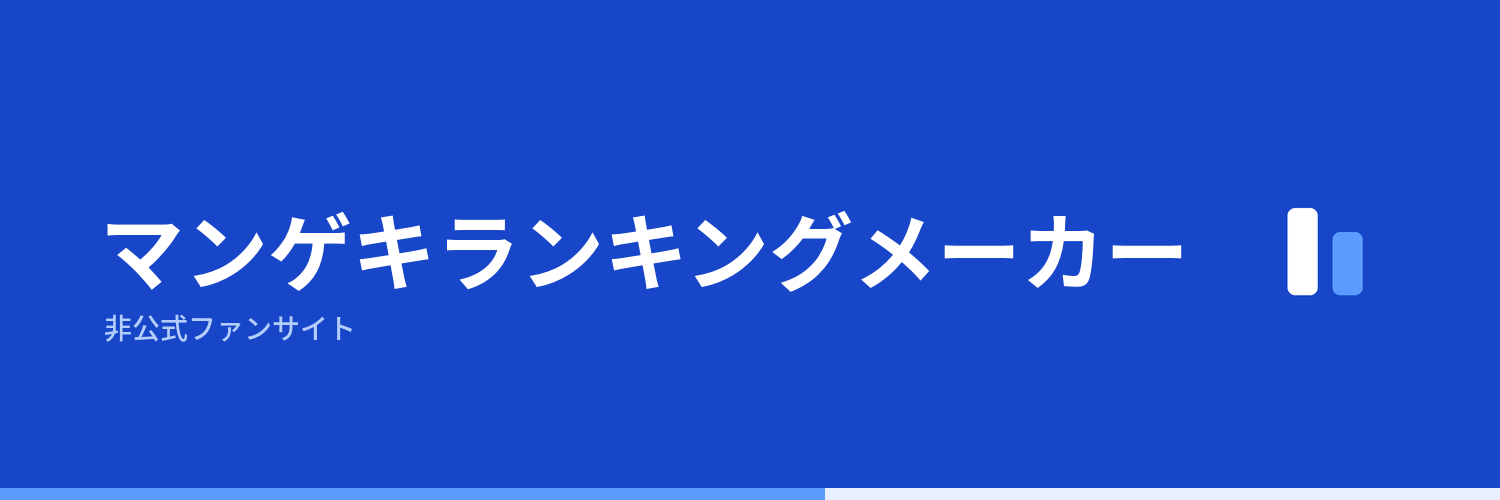
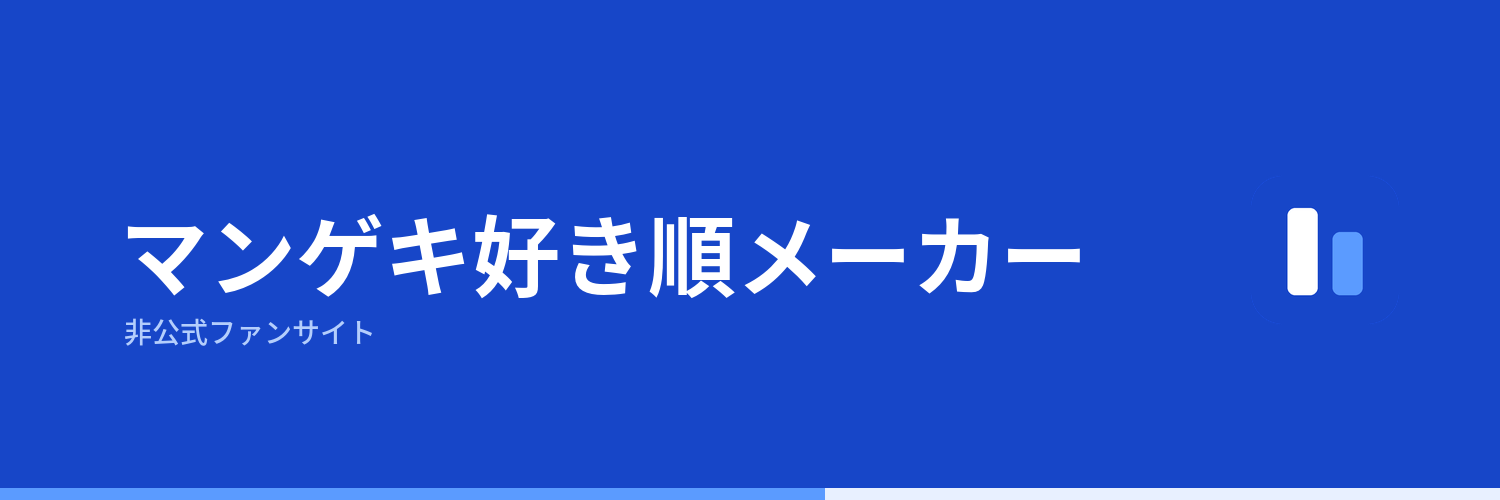
Add files via upload

Changed region(s): [[0.0613, 0.42, 0.7973, 0.6], [0.0613, 0.63, 0.2453, 0.69]]

diff --git a/index.html b/index.html
@@ -3,7 +3,7 @@
 <head>
 <meta charset="utf-8">
 <meta name="viewport" content="width=device-width, initial-scale=1, viewport-fit=cover">
-<title>マンゲキランキングメーカー｜2択で作るマンゲキ芸人ランキング</title>
+<title>マンゲキ好き順メーカー｜2択で作るマンゲキ芸人ランキング</title>
 <meta name="description" content="渋谷よしもと漫才劇場とよしもと漫才劇場（大阪）の所属芸人を2択で並べかえて、自分だけのランキング画像が作れる非公式ファンサイト。">
 <link rel="icon" href="./favicon.svg" type="image/svg+xml">
 <link rel="alternate icon" href="./favicon.png">
@@ -11,11 +11,11 @@
 <!-- ▼ 独自ドメインに変えたときは、下の og:url / og:image / twitter:image のURLも直してください -->
 <meta property="og:url" content="https://mngksort.pages.dev/">
 <meta property="og:type" content="website">
-<meta property="og:title" content="マンゲキランキングメーカー">
+<meta property="og:title" content="マンゲキ好き順メーカー">
 <meta property="og:description" content="自分だけのマンゲキ芸人ランキングを作成">
 <meta property="og:image" content="https://mngksort.pages.dev/ogp.png">
 <meta name="twitter:card" content="summary_large_image">
-<meta name="twitter:title" content="マンゲキランキングメーカー">
+<meta name="twitter:title" content="マンゲキ好き順メーカー">
 <meta name="twitter:description" content="自分だけのマンゲキ芸人ランキングを作成">
 <meta name="twitter:image" content="https://mngksort.pages.dev/ogp.png">
 <link rel="preconnect" href="https://fonts.googleapis.com">
@@ -140,8 +140,6 @@ input[type=text]:focus{outline:none;border-color:var(--blue);box-shadow:0 0 0 3p
 .rank .nm{font-weight:700;color:var(--navy);font-size:16px}
 .rank li.t1 .nm{font-size:20px}
 .rank .mb{font-size:11.5px;color:var(--mute);margin-left:7px;font-weight:400}
-.rank li.unk{background:#FAFCFF}
-.rank li.unk .no,.rank li.unk .nm{color:#9BABC4}
 .fld{font-size:12px;color:var(--mute);margin:16px 0 0}
 .segs{display:flex;gap:7px;flex-wrap:wrap;margin-top:7px}
 .segs button{background:var(--white);border:1.5px solid var(--line);border-radius:999px;padding:6px 15px;font-size:13px}
@@ -180,14 +178,14 @@ footer a{color:var(--blue)}
 <div class="topbar"></div>
 <div class="wrap">
 
-  <div class="masthead"><h1>マンゲキランキングメーカー</h1></div>
+  <div class="masthead"><h1>マンゲキ好き順メーカー</h1></div>
 
   <!-- SETUP -->
   <section id="setup">
     <div class="panel">
-      <h2>ランキング名</h2>
+      <h2>タイトル</h2>
       <p class="note">タイトルは後からも変更可能です。</p>
-      <input id="title" type="text" maxlength="30" placeholder="好きな劇場所属芸人ランキング" value="好きな劇場所属芸人ランキング">
+      <input id="title" type="text" maxlength="30" placeholder="マンゲキ好き順" value="マンゲキ好き順">
     </div>
 
     <div class="panel">
@@ -199,7 +197,7 @@ footer a{color:var(--blue)}
       <div class="opts three" id="groups"></div>
 
       <div class="gap"></div>
-      <h2>ソート対象</h2>
+      <h2>並び替え対象</h2>
       <div class="opts two" id="entries"></div>
 
       <div class="picker hidden" id="picker">
@@ -280,7 +278,7 @@ footer a{color:var(--blue)}
 /* ▼▼ SNS共有に付けるリンク。空のままなら、今このページを開いているURLが自動で使われます。
       固定したい場合だけ "https://example.pages.dev/" のように書いてください ▼▼ */
 const SHARE_URL="https://mngksort.pages.dev/";
-const shareUrl=()=>SHARE_URL||location.href.split("#")[0].split("?")[0];
+const shareUrl=()=>(SHARE_URL||location.href.split("#")[0].split("?")[0])+(location.hash||"");
 /* ▲▲ ここだけ書き換えればOK ▲▲ */
 
 /* ===== データ：渋谷よしもと漫才劇場 所属芸人 ===== */
@@ -375,7 +373,7 @@ addActs(TOKYO_SHO,"tokyo","sho");
 addActs(OSAKA_KIWAMI,"osaka","kiwami");
 addActs(OSAKA_SHO,"osaka","sho");
 const GNAME={kiwami:"極",sho:"翔",all:"全"};
-const DEFAULT_TITLE="好きな劇場所属芸人ランキング";
+const DEFAULT_TITLE="マンゲキ好き順";
 const THEATERS={
   tokyo:{label:"東京",name:"渋谷よしもと漫才劇場"},
   osaka:{label:"大阪",name:"よしもと漫才劇場"}
@@ -396,7 +394,7 @@ function ask(msg,yes){
 let theater="tokyo",group="kiwami",entry="all",custom=new Set();
 const cnt=(t,g)=>ACTS.filter(a=>a.t===t&&(g==="all"||a.g===g)).length;
 const THEATER_OPTS=[["tokyo","東京",cnt("tokyo","all")+"組"],["osaka","大阪",cnt("osaka","all")+"組"]];
-const ENTRIES=[["all","全組でソート",""],["custom","自分で選ぶ",""]];
+const ENTRIES=[["all","全組",""],["custom","自分で選ぶ",""]];
 function mkOpts(host,list,get,set){
   host.innerHTML="";
   list.forEach(([v,t,s])=>{
@@ -441,12 +439,12 @@ function syncAll(){
   $("#picker").classList.toggle("hidden",entry!=="custom");
   $("#pickCount").textContent=pool().filter(a=>custom.has(a.id)).length+"組を選択中";
   const n=chosen().length,e=estimate(n);
-  $("#summary").innerHTML=n<2?"2組以上えらんでください":`<b>${n}</b>組でソート　所要時間 約<b>${mins(e)}</b>分`;
+  $("#summary").innerHTML=n<2?"2組以上えらんでください":`<b>${n}</b>組を並び替え　所要時間 約<b>${mins(e)}</b>分`;
   $("#start").disabled=n<2;
 }
 
 /* ===== ソート機構 ===== */
-let S=null,history=[],done=0,manual=0,rosterIds=[],usedLabel="",usedTheater="",hiddenSet=new Set();
+let S=null,history=[],done=0,manual=0,rosterIds=[],usedLabel="",usedTheater="",usedCount=0,hiddenSet=new Set();
 const clone=o=>JSON.parse(JSON.stringify(o));
 function shuffle(a){for(let i=a.length-1;i>0;i--){const j=Math.floor(Math.random()*(i+1));[a[i],a[j]]=[a[j],a[i]]}return a}
 function advance(s){
@@ -483,10 +481,11 @@ function begin(){
   const ids=chosen();
   const gl=group==="all"?"全メンバー":GNAME[group]+"メンバー";
   usedLabel=entry==="all"?`${gl}${ids.length}組`:`${gl}から${ids.length}組`;
-  usedTheater=THEATERS[theater].name;
+  usedTheater=THEATERS[theater].name;usedCount=ids.length;
   rosterIds=shuffle(ids.slice());
   S={pending:rosterIds.map(i=>[[i]]),next:[],cur:null};
   history=[];done=0;manual=0;hiddenSet=new Set();
+  clearHash();
   const t=$("#title").value.trim();
   $("#qText").textContent=t?`「${t}」ならどっち？`:"どっちが好き？";
   $("#setup").classList.add("hidden");$("#result").classList.add("hidden");
@@ -529,6 +528,7 @@ $("#skipB").onclick=e=>{drop(e);hideAct("b")};
 $("#undo").onclick=()=>{const h=history.pop();if(h){S=h.s;done=h.done;manual=h.manual;hiddenSet=new Set(h.hid);render()}};
 $("#quit").onclick=async()=>{
   if(await ask("ここまでの選択は消えます。最初からやり直しますか？","やり直す")){
+    clearHash();
     $("#battle").classList.add("hidden");$("#setup").classList.remove("hidden");window.scrollTo(0,0);
   }
 };
@@ -552,17 +552,13 @@ function rankRows(){
   RESULT.forEach(g=>{
     const keep=g.filter(id=>!hiddenSet.has(id));
     if(!keep.length)return;
-    keep.forEach(id=>rows.push({rank:r,act:ACTS[id],unknown:false}));
+    keep.forEach(id=>rows.push({rank:r,act:ACTS[id]}));
     r+=keep.length;
   });
-  /* 「分からない」で省いた組は、全員そろって最下位に */
-  const unknowns=[];
-  RESULT.forEach(g=>g.forEach(id=>{if(hiddenSet.has(id))unknowns.push(id)}));
-  unknowns.forEach(id=>rows.push({rank:r,act:ACTS[id],unknown:true}));
   return rows;
 }
 function limited(){const rows=rankRows();return depth==="all"?rows:rows.filter(r=>r.rank<=Number(depth))}
-async function showResult(res){
+async function showResult(res,savedDepth,restoring){
   RESULT=res;
   const n=rankRows().length;
   if(n<1){
@@ -572,19 +568,20 @@ async function showResult(res){
   $("#battle").classList.add("hidden");$("#result").classList.remove("hidden");
   const opts=[["5","上位5組"],["10","上位10組"],["all","全"+n+"組"]].filter(o=>o[0]==="all"||Number(o[0])<n);
   depth=n>10?"10":(n>5?"5":"all");
+  if(savedDepth&&opts.some(o=>o[0]===savedDepth))depth=savedDepth;
   const d=$("#depth");d.innerHTML="";
   opts.forEach(([v,t])=>{const b=document.createElement("button");b.type="button";b.textContent=t;
     b.setAttribute("aria-pressed",v===depth);
-    b.onclick=()=>{depth=v;[...d.children].forEach((c,i)=>c.setAttribute("aria-pressed",opts[i][0]===v));drawResult()};
+    b.onclick=()=>{depth=v;[...d.children].forEach((c,i)=>c.setAttribute("aria-pressed",opts[i][0]===v));syncHash(false);drawResult()};
     d.appendChild(b)});
+  if(!restoring)syncHash(true);
   window.scrollTo(0,0);drawResult();
 }
 function drawResult(){
   const list=$("#rankList");list.innerHTML="";
   limited().forEach(r=>{
     const li=document.createElement("li");
-    if(r.unknown)li.className="unk";
-    else if(r.rank<=3)li.className="t"+r.rank;
+    if(r.rank<=3)li.className="t"+r.rank;
     li.innerHTML='<span class="no"></span><span><span class="nm"></span><span class="mb"></span></span>';
     li.querySelector(".no").textContent=r.rank;
     li.querySelector(".nm").textContent=r.act.n;
@@ -594,7 +591,58 @@ function drawResult(){
   drawImage();
 }
 let drawTimer=null;
-$("#title2").oninput=()=>{clearTimeout(drawTimer);drawTimer=setTimeout(drawImage,400)};
+$("#title2").oninput=()=>{clearTimeout(drawTimer);drawTimer=setTimeout(()=>{syncHash(false);drawImage()},400)};
+
+/* ===== 結果をURLに保存して、再読み込みや共有で復元できるようにする ===== */
+const bare=()=>location.pathname+location.search;
+function resultHash(){
+  const p=new URLSearchParams();
+  p.set("v","1");p.set("t",theater);p.set("g",group);p.set("e",entry);
+  p.set("c",String(usedCount||rankRows().length));
+  p.set("d",depth);
+  p.set("n",$("#title2").value.trim()||DEFAULT_TITLE);
+  p.set("r",RESULT.map(g=>g.filter(id=>!hiddenSet.has(id))).filter(g=>g.length).map(g=>g.join("-")).join("."));
+  return "#"+p.toString();
+}
+function syncHash(push){
+  if(!RESULT.length)return;
+  const h=resultHash();
+  if(location.hash===h)return;
+  try{push?history.pushState(null,"",h):history.replaceState(null,"",h)}catch(e){location.hash=h}
+}
+function clearHash(){try{history.pushState(null,"",bare())}catch(e){}}
+function parseHash(){
+  try{
+    const q=new URLSearchParams(location.hash.slice(1));
+    if(q.get("v")!=="1")return null;
+    const groups=(q.get("r")||"").split(".").filter(Boolean).map(g=>g.split("-").map(Number));
+    const ids=groups.flat();
+    if(!ids.length||ids.some(i=>!Number.isInteger(i)||i<0||i>=ACTS.length))return null;
+    if(new Set(ids).size!==ids.length)return null;
+    const t=q.get("t"),g=q.get("g");
+    if(!THEATERS[t]||!["kiwami","sho","all"].includes(g))return null;
+    return {groups,t,g,e:q.get("e")==="all"?"all":"custom",
+      c:Number(q.get("c"))||ids.length,n:q.get("n")||DEFAULT_TITLE,d:q.get("d")||"all"};
+  }catch(e){return null}
+}
+function restoreFromHash(){
+  const p=parseHash();if(!p)return false;
+  theater=p.t;group=p.g;entry=p.e;hiddenSet=new Set();rosterIds=[];
+  usedTheater=THEATERS[p.t].name;
+  const gl=p.g==="all"?"全メンバー":GNAME[p.g]+"メンバー";
+  usedCount=p.c;usedLabel=p.e==="all"?`${gl}${p.c}組`:`${gl}から${p.c}組`;
+  $("#title2").value=p.n;
+  $("#setup").classList.add("hidden");$("#battle").classList.add("hidden");
+  showResult(p.groups,p.d,true);
+  return true;
+}
+addEventListener("hashchange",()=>{
+  if(!location.hash){
+    $("#result").classList.add("hidden");$("#battle").classList.add("hidden");
+    $("#setup").classList.remove("hidden");return;
+  }
+  restoreFromHash();
+});
 
 /* ===== 画像 ===== */
 const W=960;let lastBlob=null,drawSeq=0,lastDraw=Promise.resolve();
@@ -630,7 +678,7 @@ async function renderImage(){
   const my=++drawSeq;
   const rows=limited();
   const title=($("#title2").value.trim())||DEFAULT_TITLE;
-  await ensureFonts(title+rows.map(r=>r.act.n).join("")+usedLabel+usedTheater+"渋谷よしもと漫才劇場大阪位組年月日を並べかえマンゲキランキングメーカー非公式");
+  await ensureFonts(title+rows.map(r=>r.act.n).join("")+usedLabel+usedTheater+"渋谷よしもと漫才劇場大阪位組年月日を並べかえマンゲキ好き順メーカー非公式");
   const c=document.createElement("canvas"),ctx=c.getContext("2d");
   const maxW=W-120;
 
@@ -668,13 +716,13 @@ async function renderImage(){
     if(i===0){ctx.fillStyle="#EFF5FF";ctx.fillRect(0,y,W,h)}
     ctx.textAlign="center";
     ctx.font=`500 ${i===0?58:i<3?46:36}px "Oswald",sans-serif`;
-    ctx.fillStyle=r.unknown?"#C3CEDE":r.rank===1?"#1746C8":r.rank<=3?"#5B9BFF":"#93A4BE";
+    ctx.fillStyle=r.rank===1?"#1746C8":r.rank<=3?"#5B9BFF":"#93A4BE";
     ctx.fillText(String(r.rank),104,cy+2);
     ctx.textAlign="left";
     let ns=i===0?50:i<3?42:34;
     const avail=W-172-48;
     while(ns>20){ctx.font=`700 ${ns}px "Zen Kaku Gothic New",sans-serif`;if(ctx.measureText(r.act.n).width<=avail)break;ns-=2}
-    ctx.fillStyle=r.unknown?"#8E9FB8":"#0E2140";
+    ctx.fillStyle="#0E2140";
     ctx.fillText(r.act.n,172,cy);
     ctx.fillStyle="#E2EAF6";ctx.fillRect(56,y+h-3,W-112,1);
     y+=h;
@@ -684,7 +732,7 @@ async function renderImage(){
   ctx.font='500 21px "Zen Kaku Gothic New",sans-serif';
   ctx.fillStyle="#93A4BE";
   const d=new Date();
-  ctx.fillText(`${d.getFullYear()}.${d.getMonth()+1}.${d.getDate()}　マンゲキランキングメーカー（非公式）`,W/2,H-footH/2-4);
+  ctx.fillText(`${d.getFullYear()}.${d.getMonth()+1}.${d.getDate()}　マンゲキ好き順メーカー（非公式）`,W/2,H-footH/2-4);
   ctx.fillStyle="#1746C8";ctx.fillRect(0,H-8,W*.55,8);
   ctx.fillStyle="#5B9BFF";ctx.fillRect(W*.55,H-8,W*.45,8);
 
@@ -752,7 +800,7 @@ function xw(t){let n=0;for(const ch of t){const o=ch.codePointAt(0);
 function shareText(){
   const rows=rankRows().slice(0,10);
   const t=$("#title2").value.trim()||DEFAULT_TITLE;
-  const head=`【${t}】`,tail="\n\n#MNGKRANK",URLCOST=1+23,LIMIT=280;
+  const head=`【${t}】`,tail="\n\n#MNGKMAKER",URLCOST=1+23,LIMIT=280;
   const lines=rows.map(r=>`${r.rank}位 ${r.act.n}`);
   let n=lines.length,txt;
   while(true){
@@ -778,9 +826,9 @@ $("#copyTxt").onclick=async()=>{
     ta.remove();
   }
 };
-$("#again").onclick=()=>{$("#result").classList.add("hidden");$("#setup").classList.remove("hidden");window.scrollTo(0,0)};
+$("#again").onclick=()=>{clearHash();$("#result").classList.add("hidden");$("#setup").classList.remove("hidden");window.scrollTo(0,0)};
 
-buildPicker();syncAll();
+buildPicker();syncAll();restoreFromHash();
 </script>
 </body>
 </html>

diff --git a/README.md b/README.md
@@ -1,4 +1,4 @@
-# マンゲキランキングメーカー
+# マンゲキ好き順メーカー
 
 渋谷よしもと漫才劇場（東京）とよしもと漫才劇場（大阪）の所属芸人を2択で並べかえて、
 自分だけのランキング画像を作る非公式ファンサイトです。
@@ -30,71 +30,59 @@
 ### ブラウザだけで済ませる場合
 
 1. GitHubにログインし、右上の「+」→ New repository
-2. Repository name に `mangeki-ranking-maker` などを入れ、Public のまま Create repository
+2. Repository name を入れて Create repository（private でも public でも公開できます）
 3. 次の画面の「uploading an existing file」をクリック
-4. このフォルダの中身（`index.html` や画像類）をまとめてドラッグ＆ドロップ
-   - フォルダごとではなく、**中のファイルを直接**入れてください。`index.html` がリポジトリの一番上に来るのが正解です
-5. 下の Commit changes を押す
+4. このフォルダの**中のファイル**をまとめてドラッグ＆ドロップ（フォルダごとではなく中身を直接）
+5. Commit changes
 
-### コマンドで済ませる場合
+`index.html` がリポジトリの一番上にあればOKです。
+
+### コマンドの場合
 
 ```bash
-cd マンゲキランキングメーカーのフォルダ
 git init
 git add .
 git commit -m "first commit"
 git branch -M main
-git remote add origin https://github.com/ユーザー名/mangeki-ranking-maker.git
+git remote add origin https://github.com/ユーザー名/リポジトリ名.git
 git push -u origin main
 ```
 
 ---
 
-## Cloudflare Pagesで公開する
+## Cloudflareで公開する
 
-1. [Cloudflareダッシュボード](https://dash.cloudflare.com/)にログイン
-2. 左メニューの **Workers & Pages** → **Create** → **Pages** タブ → **Connect to Git**
-3. GitHubアカウントを連携し、さきほどのリポジトリを選ぶ
-4. ビルド設定を次のようにする（どれも空欄・None でかまいません）
+Cloudflareの「Create an app」画面はWorkers用に変わっています。静的サイトはPagesの導線から作ります。
+
+1. Cloudflareダッシュボード → Compute → **Workers & Pages** → **Create**
+2. 画面下の小さなリンク **Continue to Pages**（Need to use the legacy Pages workflow? の横）をクリック
+3. **Import an existing Git repository** の Get started
+4. GitHubを連携してリポジトリを選択 → Begin setup
+5. 設定を次のとおりにする
 
    | 項目 | 値 |
    |---|---|
+   | Project name | 好きな名前（これがURLになります） |
    | Production branch | `main` |
    | Framework preset | None |
-   | Build command | （空欄） |
+   | Build command | 空欄 |
    | Build output directory | `/` |
 
-5. **Save and Deploy** を押す。1分ほどで `https://プロジェクト名.pages.dev` が発行されます
-6. 以降はGitHubにpushするだけで自動的に再デプロイされます
+6. **Save and Deploy**。1分ほどで `https://プロジェクト名.pages.dev` が発行されます
+
+以降はGitHubにpushするたびに自動で再デプロイされます。
 
 ### 独自ドメインを使う場合
 
-Pagesのプロジェクト → **Custom domains** → Set up a custom domain。
-Cloudflareで管理しているドメインならDNSは自動で設定されます。
+プロジェクト画面 → Custom domains → Set up a custom domain。
+Cloudflareで管理しているドメインならDNSは自動設定されます。
 
 ---
 
 ## 公開したあとに直すところ
 
-**共有リンクは自動で入ります。** `index.html` の `SHARE_URL` は空のままでよく、
-Xに投稿するときは開いているページのURLが自動で使われます。
-固定したい場合だけ次のように書いてください。
-
-```js
-const SHARE_URL="https://あなたのドメイン/";
-```
-
-**OGP画像は絶対URLに直す必要があります。** Xやその他SNSでカードを表示させるには、
-`index.html` の `<head>` にある次の3か所を公開URLに書き換えてください。
-
-```html
-<meta property="og:url" content="https://あなたのドメイン/">
-<meta property="og:image" content="https://あなたのドメイン/ogp.png">
-<meta name="twitter:image" content="https://あなたのドメイン/ogp.png">
-```
-
-書き換えたら [Card Validator](https://cards-dev.twitter.com/validator) などでキャッシュを更新すると、
-反映が早くなります。
+共有リンクとOGPは `https://mngksort.pages.dev/` 向けに設定済みです。
+独自ドメインに変える場合のみ、下の「URLの設定について」を参照してください。
 
 ---
 
@@ -122,3 +110,14 @@ const SHARE_URL="https://あなたのドメイン/";
 利用者のデータはどこにも送信・保存していません（すべてブラウザ内で完結します）。
 
 制作：ふかせ（[@F6rPd](https://x.com/F6rPd)）
+
+---
+
+## URLの設定について
+
+公開URL `https://mngksort.pages.dev/` を前提に設定済みです。書き換えは不要です。
+
+- Xの投稿文に入るリンク：`index.html` 冒頭の `const SHARE_URL="https://mngksort.pages.dev/";`
+- OGP：`<head>` の `og:url` / `og:image` / `twitter:image`
+
+独自ドメインに変えたときだけ、この4か所を新しいURLに直してください。
